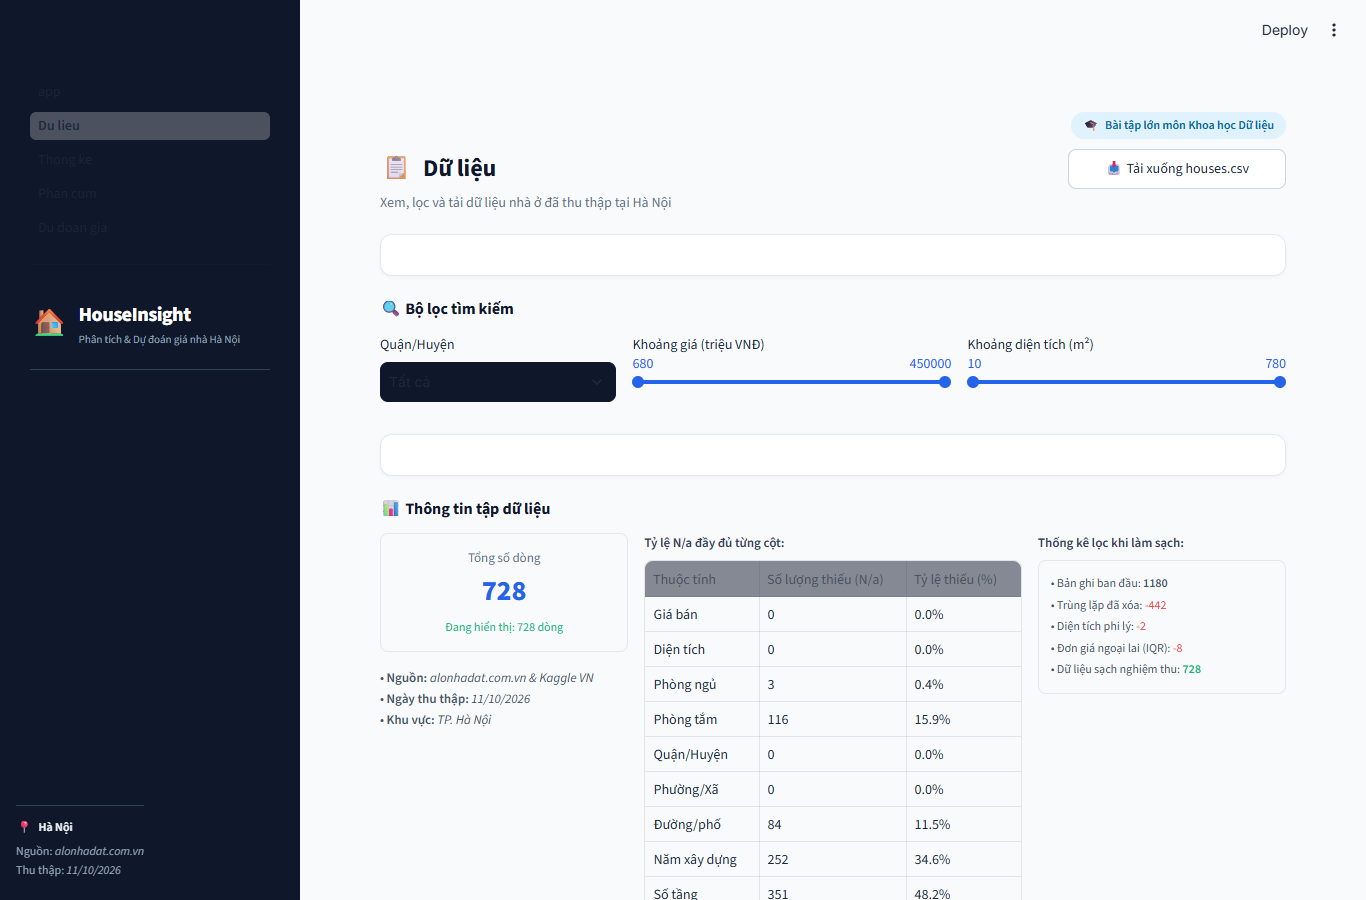
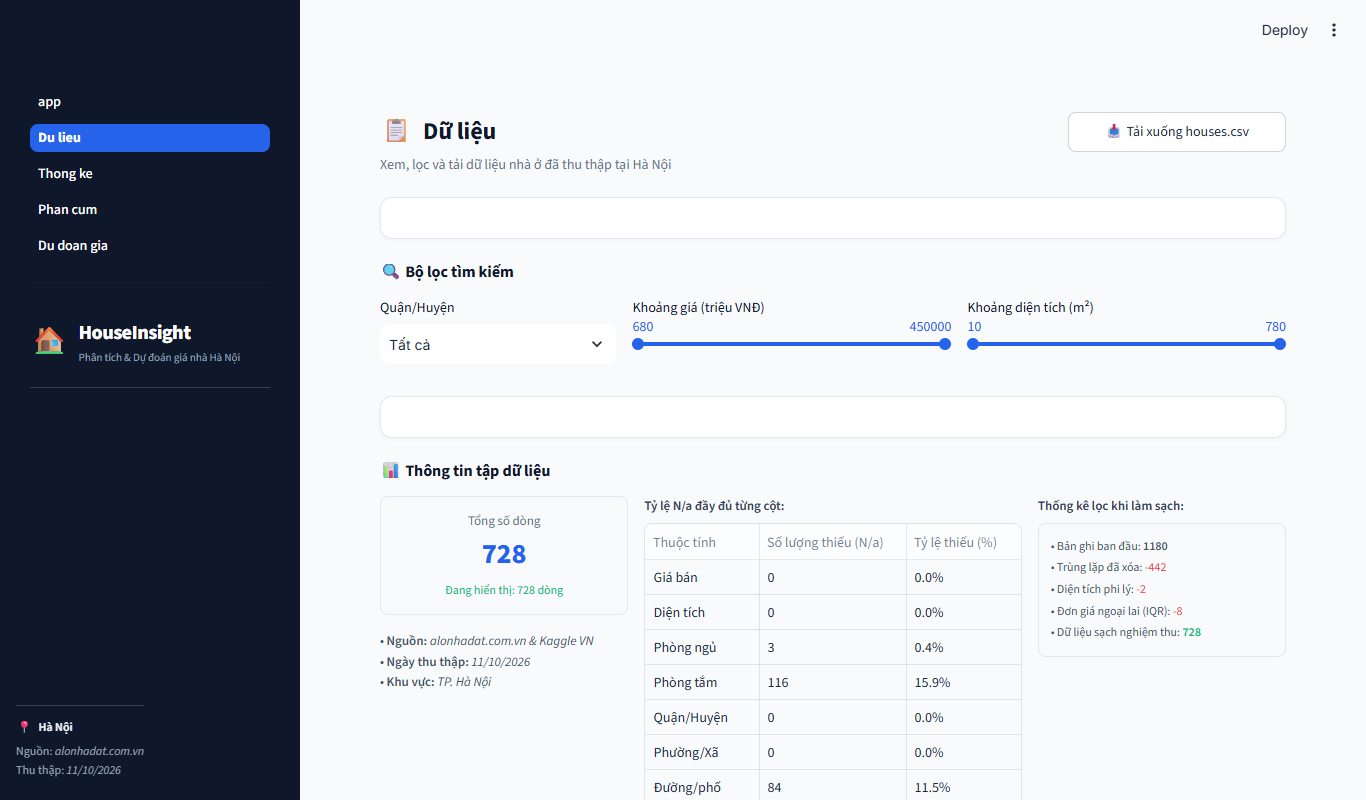
Chỉnh lại màu

diff --git a/src/ui.py b/src/ui.py
@@ -20,14 +20,115 @@ def apply_custom_css():
             z-index: 1;
         }
 
-        /* Sidebar màu navy đậm */
-        [data-testid="stSidebar"] {
+        /* Sidebar màu navy đậm & toàn bộ chữ mặc định */
+        section[data-testid="stSidebar"] {
             background-color: #0f172a !important;
-            color: #f8fafc !important;
+            color: #ffffff !important;
         }
-        [data-testid="stSidebar"] .stMarkdown p,
-        [data-testid="stSidebar"] .stMarkdown span {
+        section[data-testid="stSidebar"] .stMarkdown p,
+        section[data-testid="stSidebar"] .stMarkdown span {
             color: #cbd5e1 !important;
+        }
+
+        /* Chuyển các chữ trong menu điều hướng Sidebar thành màu trắng rõ nét */
+        [data-testid="stSidebarNav"] {
+            background-color: transparent !important;
+            padding-top: 8px !important;
+        }
+        [data-testid="stSidebarNav"] ul {
+            padding: 0 !important;
+        }
+        [data-testid="stSidebarNav"] li {
+            margin-bottom: 4px !important;
+        }
+        [data-testid="stSidebarNav"] a,
+        [data-testid="stSidebarNav"] a span,
+        [data-testid="stSidebarNavItems"] a,
+        [data-testid="stSidebarNavItems"] a span,
+        [data-testid="stSidebarNavLink"],
+        [data-testid="stSidebarNavLink"] span,
+        section[data-testid="stSidebar"] nav a,
+        section[data-testid="stSidebar"] nav a span,
+        section[data-testid="stSidebar"] nav ul li a,
+        section[data-testid="stSidebar"] nav ul li a span {
+            color: #ffffff !important;
+            font-weight: 500 !important;
+            font-size: 14px !important;
+            text-decoration: none !important;
+            transition: all 0.2s ease !important;
+        }
+
+        /* Hiệu ứng hover menu */
+        [data-testid="stSidebarNav"] a:hover,
+        [data-testid="stSidebarNav"] a:hover span,
+        [data-testid="stSidebarNavLink"]:hover,
+        [data-testid="stSidebarNavLink"]:hover span,
+        section[data-testid="stSidebar"] nav ul li a:hover {
+            color: #ffffff !important;
+            background-color: rgba(255, 255, 255, 0.12) !important;
+            border-radius: 8px !important;
+        }
+
+        /* Tab trang đang được chọn (Active) */
+        [data-testid="stSidebarNav"] a[aria-current="page"],
+        [data-testid="stSidebarNav"] a[aria-current="page"] span,
+        [data-testid="stSidebarNavLink"][aria-current="page"],
+        [data-testid="stSidebarNavLink"][aria-current="page"] span,
+        section[data-testid="stSidebar"] nav ul li a[aria-current="page"],
+        section[data-testid="stSidebar"] nav ul li a[aria-current="page"] span {
+            color: #ffffff !important;
+            font-weight: 700 !important;
+            background-color: #2563eb !important;
+            border-radius: 8px !important;
+        }
+
+        /* Icon SVG trong sidebar nav */
+        [data-testid="stSidebarNav"] svg,
+        [data-testid="stSidebarNavLink"] svg {
+            fill: #ffffff !important;
+            color: #ffffff !important;
+        }
+
+        /* Định kiểu ô Selectbox: nền trắng, chữ đen, viền rõ nét */
+        div[data-baseweb="select"] > div {
+            background-color: #ffffff !important;
+            border: 1px solid #cbd5e1 !important;
+            border-radius: 8px !important;
+            color: #0f172a !important;
+            box-shadow: 0 1px 2px rgba(0, 0, 0, 0.05) !important;
+        }
+
+        /* Chữ bên trong ô Selectbox */
+        div[data-baseweb="select"] * {
+            color: #0f172a !important;
+        }
+
+        /* Mũi tên góc phải của Selectbox */
+        div[data-baseweb="select"] svg {
+            fill: #475569 !important;
+        }
+
+        /* Danh sách dropdown khi bấm mở ô chọn */
+        ul[data-testid="stSelectboxVirtualDropdown"],
+        div[data-baseweb="popover"] {
+            background-color: #ffffff !important;
+        }
+        ul[data-testid="stSelectboxVirtualDropdown"] li,
+        div[data-baseweb="menu"] li {
+            background-color: #ffffff !important;
+            color: #0f172a !important;
+        }
+        ul[data-testid="stSelectboxVirtualDropdown"] li:hover,
+        div[data-baseweb="menu"] li:hover {
+            background-color: #f1f5f9 !important;
+            color: #2563eb !important;
+        }
+
+        /* Nhãn Label của các widget / selectbox */
+        div[data-testid="stWidgetLabel"] p,
+        label[data-testid="stWidgetLabel"] {
+            color: #0f172a !important;
+            font-weight: 600 !important;
         }
 
         /* Thẻ Card bo góc */
@@ -214,18 +315,3 @@ def render_sidebar_info():
             """,
             unsafe_allow_html=True,
         )
-
-
-def render_top_badge(title: str = "Bài tập lớn môn Khoa học Dữ liệu"):
-    """Hiển thị huy hiệu góc phải phía trên."""
-    st.markdown(
-        f"""
-        <div style="display: flex; justify-content: flex-end; margin-bottom: 10px;">
-            <div class="top-badge">
-                <span>🎓</span> {title}
-            </div>
-        </div>
-        """,
-        unsafe_allow_html=True,
-    )
-

diff --git a/pages/2_Thong_ke.py b/pages/2_Thong_ke.py
@@ -8,7 +8,7 @@ import plotly.graph_objects as go
 import streamlit as st
 
 from src.stats import analyze_distribution, compare_districts, get_top_cheapest_and_most_expensive, load_clean_data
-from src.ui import apply_custom_css, render_sidebar_info, render_top_badge
+from src.ui import apply_custom_css, render_sidebar_info
 
 st.set_page_config(
     page_title="HouseInsight - Thống kê",
@@ -19,7 +19,6 @@ st.set_page_config(
 
 apply_custom_css()
 render_sidebar_info()
-render_top_badge("Bài tập lớn môn Khoa học Dữ liệu")
 
 # Tiêu đề trang
 st.markdown(

diff --git a/pages/4_Du_doan_gia.py b/pages/4_Du_doan_gia.py
@@ -9,7 +9,7 @@ import streamlit as st
 
 from src.model import predict_single_house
 from src.stats import load_clean_data
-from src.ui import apply_custom_css, render_sidebar_info, render_top_badge
+from src.ui import apply_custom_css, render_sidebar_info
 
 st.set_page_config(
     page_title="HouseInsight - Dự đoán giá",
@@ -20,7 +20,6 @@ st.set_page_config(
 
 apply_custom_css()
 render_sidebar_info()
-render_top_badge("Bài tập lớn môn Khoa học Dữ liệu")
 
 # Tiêu đề trang
 st.markdown(

diff --git a/pages/1_Du_lieu.py b/pages/1_Du_lieu.py
@@ -5,7 +5,7 @@ from pathlib import Path
 import pandas as pd
 import streamlit as st
 
-from src.ui import apply_custom_css, render_sidebar_info, render_top_badge
+from src.ui import apply_custom_css, render_sidebar_info
 
 st.set_page_config(
     page_title="HouseInsight - Dữ liệu",
@@ -16,7 +16,6 @@ st.set_page_config(
 
 apply_custom_css()
 render_sidebar_info()
-render_top_badge("Bài tập lớn môn Khoa học Dữ liệu")
 
 # Tiêu đề trang
 col_title, col_btn = st.columns([3, 1])

diff --git a/pages/3_Phan_cum.py b/pages/3_Phan_cum.py
@@ -16,7 +16,7 @@ from src.clustering import (
     summarize_clusters,
 )
 from src.stats import load_clean_data
-from src.ui import apply_custom_css, render_sidebar_info, render_top_badge
+from src.ui import apply_custom_css, render_sidebar_info
 
 st.set_page_config(
     page_title="HouseInsight - Phân cụm",
@@ -27,7 +27,6 @@ st.set_page_config(
 
 apply_custom_css()
 render_sidebar_info()
-render_top_badge("Bài tập lớn môn Khoa học Dữ liệu")
 
 # Tiêu đề trang
 st.markdown(

diff --git a/app.py b/app.py
@@ -5,7 +5,7 @@ from pathlib import Path
 import pandas as pd
 import streamlit as st
 
-from src.ui import apply_custom_css, render_sidebar_info, render_top_badge
+from src.ui import apply_custom_css, render_sidebar_info
 
 st.set_page_config(
     page_title="HouseInsight - Trang chủ",
@@ -16,7 +16,6 @@ st.set_page_config(
 
 apply_custom_css()
 render_sidebar_info()
-render_top_badge("Bài tập lớn môn Khoa học Dữ liệu")
 
 
 @st.cache_data
